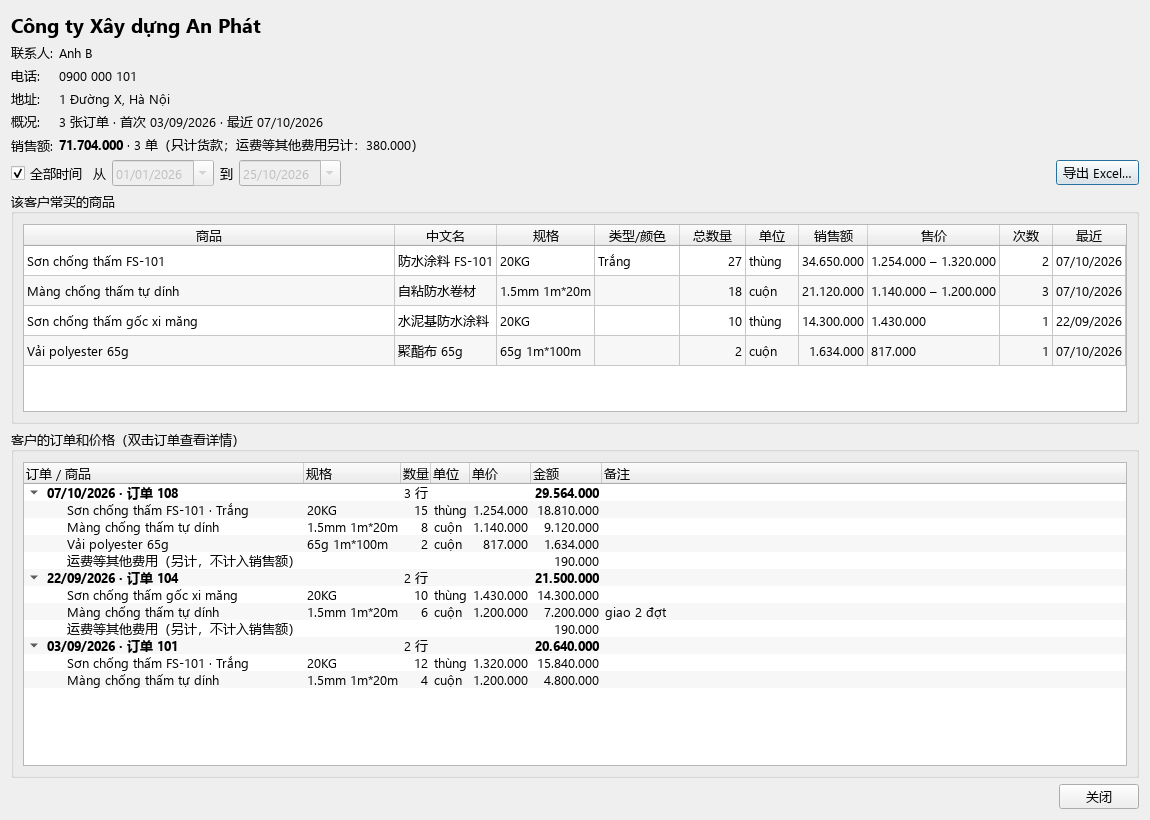
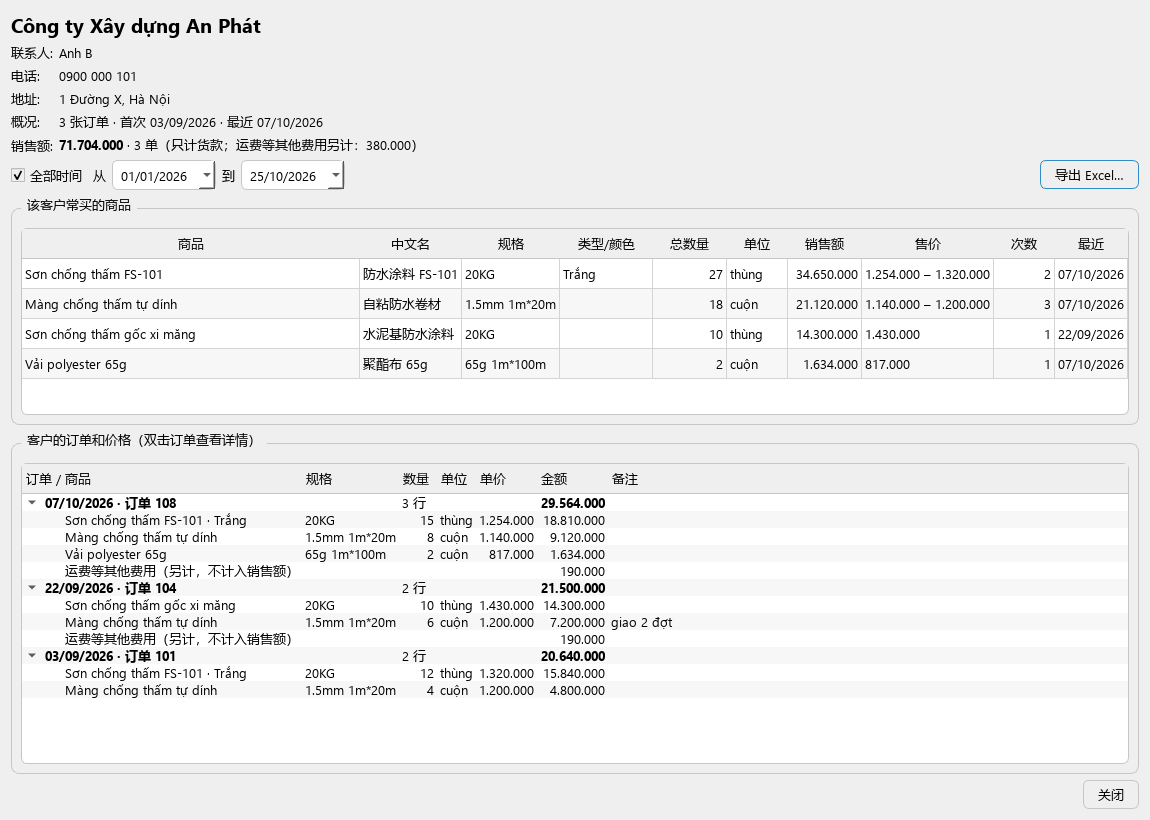
Round the inner UI (buttons, inputs, tables, tabs, panels) for a softer look
apply_rounded_style() applies one app-wide QSS (6-8px corners, colours
from theme_color() so light/dark both stay readable, re-applied on a
palette change). Called from app.main() and from
scripts/readme_screenshots.py, which builds its own QApplication.
The OS window frame itself is left untouched, as requested -- it is
already rounded on Windows 11 and macOS, and a frameless window would
lose the native minimize/maximize/move behaviour.

Any application-wide stylesheet moves Qt to its "styled" background
painting path for every widget, not only the ones a rule targets, so
explicit palette-tied background rules were needed for QWidget and the
item views -- without them a widget stops following the live palette.
Verified by screenshot in light mode across several screens; dark mode
could not be verified reliably in an offscreen test environment and is
flagged in CLAUDE.md for the user to check on a real machine.

diff --git a/src/dibekho/ui/common.py b/src/dibekho/ui/common.py
@@ -39,9 +39,9 @@ from dibekho.i18n import t
 # so the white text stays readable. sync_theme_colors() updates these objects in place.
 _THEMES = {
     "light": {"RED": "#fde2e1", "YELLOW": "#fff4cc", "ORANGE": "#ffd9a8", "hint": "#666666", "banner": "#eef5ff",
-              "alert": "#c0392b", "warn": "#b35900"},
+              "alert": "#c0392b", "warn": "#b35900", "border": "#c6c6c6", "hover": "#eef2f7", "pressed": "#dde4ec"},
     "dark": {"RED": "#6e2a2a", "YELLOW": "#5e4c14", "ORANGE": "#6e4210", "hint": "#a0a0a0", "banner": "#1f3550",
-             "alert": "#ff7b72", "warn": "#ffb066"},
+             "alert": "#ff7b72", "warn": "#ffb066", "border": "#55585c", "hover": "#363a3f", "pressed": "#2a2d31"},
 }
 RED = QColor(_THEMES["light"]["RED"])
 YELLOW = QColor(_THEMES["light"]["YELLOW"])
@@ -64,6 +64,91 @@ def sync_theme_colors() -> None:
     RED.setRgb(QColor(colors["RED"]).rgb())
     YELLOW.setRgb(QColor(colors["YELLOW"]).rgb())
     ORANGE.setRgb(QColor(colors["ORANGE"]).rgb())
+
+
+def _rounded_qss() -> str:
+    border, hover, pressed = theme_color("border"), theme_color("hover"), theme_color("pressed")
+    return f"""
+        /* Setting any application-wide stylesheet moves Qt to its "styled" background painting path for
+        every widget, not only the ones a rule below actually targets -- without these, a plain QWidget
+        stops following the live (light or dark) palette and falls back to a flat default. */
+        QWidget {{ background-color: palette(window); color: palette(window-text); }}
+        QAbstractItemView {{
+            background-color: palette(base);
+            alternate-background-color: palette(alternate-base);
+            color: palette(text);
+        }}
+        QLineEdit, QComboBox, QDateEdit, QAbstractSpinBox {{
+            background-color: palette(base);
+            color: palette(text);
+        }}
+        QPushButton {{
+            background-color: palette(button);
+            color: palette(button-text);
+            border: 1px solid {border};
+            border-radius: 6px;
+            padding: 5px 14px;
+        }}
+        QPushButton:hover {{ background: {hover}; }}
+        QPushButton:pressed {{ background: {pressed}; }}
+        QPushButton:default {{ border: 1px solid palette(highlight); }}
+        QLineEdit, QComboBox, QDateEdit, QSpinBox, QDoubleSpinBox, QAbstractSpinBox {{
+            border: 1px solid {border};
+            border-radius: 6px;
+            padding: 3px 6px;
+        }}
+        QComboBox::drop-down {{ border: none; width: 20px; }}
+        QLineEdit:focus, QComboBox:focus, QDateEdit:focus, QSpinBox:focus, QDoubleSpinBox:focus {{
+            border: 1px solid palette(highlight);
+        }}
+        QGroupBox {{
+            border: 1px solid {border};
+            border-radius: 8px;
+            margin-top: 12px;
+            padding-top: 10px;
+        }}
+        QGroupBox::title {{
+            subcontrol-origin: margin;
+            left: 10px;
+            padding: 0 4px;
+        }}
+        QTabWidget::pane {{
+            border: 1px solid {border};
+            border-radius: 8px;
+        }}
+        QTabBar::tab {{
+            border: 1px solid {border};
+            border-bottom: none;
+            border-top-left-radius: 6px;
+            border-top-right-radius: 6px;
+            padding: 5px 14px;
+            margin-right: 2px;
+        }}
+        QTabBar::tab:selected {{ background: {hover}; }}
+        QTabBar::tab:!selected {{ margin-top: 2px; }}
+        QTableView, QTreeView, QListView {{
+            border: 1px solid {border};
+            border-radius: 6px;
+        }}
+        QHeaderView::section {{
+            border: none;
+            border-bottom: 1px solid {border};
+            padding: 4px;
+        }}
+    """
+
+
+def apply_rounded_style(app: QApplication) -> None:
+    """A softer look for buttons, inputs, tabs and panels (the user's own words: 'bo tròn... để trông nó
+    mềm mại hơn'), while leaving the OS window frame itself untouched -- it already comes rounded on both
+    Windows 11 and macOS, and drawing a frameless window instead would lose the native minimize/maximize/
+    move behaviour. Fusion (already forced by app.setStyle) renders QSS the same way on both platforms.
+    Colours come from theme_color(), so this stays readable in dark mode; re-applied whenever the OS
+    palette changes, the same trigger sync_theme_colors() reacts to via fill_table()."""
+    app.setStyleSheet(_rounded_qss())
+    if not getattr(app, "_rounded_style_wired", False):
+        app.paletteChanged.connect(lambda *_: app.setStyleSheet(_rounded_qss()))
+        app._rounded_style_wired = True
 
 
 class AppContext(QObject):

diff --git a/src/dibekho/app.py b/src/dibekho/app.py
@@ -28,7 +28,7 @@ from dibekho import APP_NAME, __version__, i18n
 from dibekho.core import activity, backup
 from dibekho.core.workspace import Config, Workspace, default_workspace
 from dibekho.i18n import LANGUAGES, t
-from dibekho.ui.common import theme_color
+from dibekho.ui.common import apply_rounded_style, theme_color
 
 
 class FirstRunDialog(QDialog):
@@ -127,6 +127,7 @@ def main() -> int:
     elif sys.platform == "darwin":
         font.setFamilies([font.family(), "PingFang SC", "Hiragino Sans GB", "STHeiti"])
     app.setFont(font)
+    apply_rounded_style(app)
     sys.excepthook = _excepthook
 
     cfg = saved

diff --git a/scripts/readme_screenshots.py b/scripts/readme_screenshots.py
@@ -86,7 +86,9 @@ if sys.platform == "win32":  # the offscreen platform does not find .ttc fonts b
 f.setFamilies(["Segoe UI", "Microsoft YaHei UI", "Microsoft YaHei", "Segoe UI Symbol"])
 app.setFont(f)
 i18n.set_language(LANG)
-from dibekho.ui.common import AppContext  # noqa: E402
+from dibekho.ui.common import AppContext, apply_rounded_style  # noqa: E402
+
+apply_rounded_style(app)
 from dibekho.ui.details import CustomerDialog, DocumentDialog  # noqa: E402
 from dibekho.ui.main_window import PENDING, SEARCH, MainWindow  # noqa: E402
 from dibekho.ui.search_page import WINDOWS  # noqa: E402
